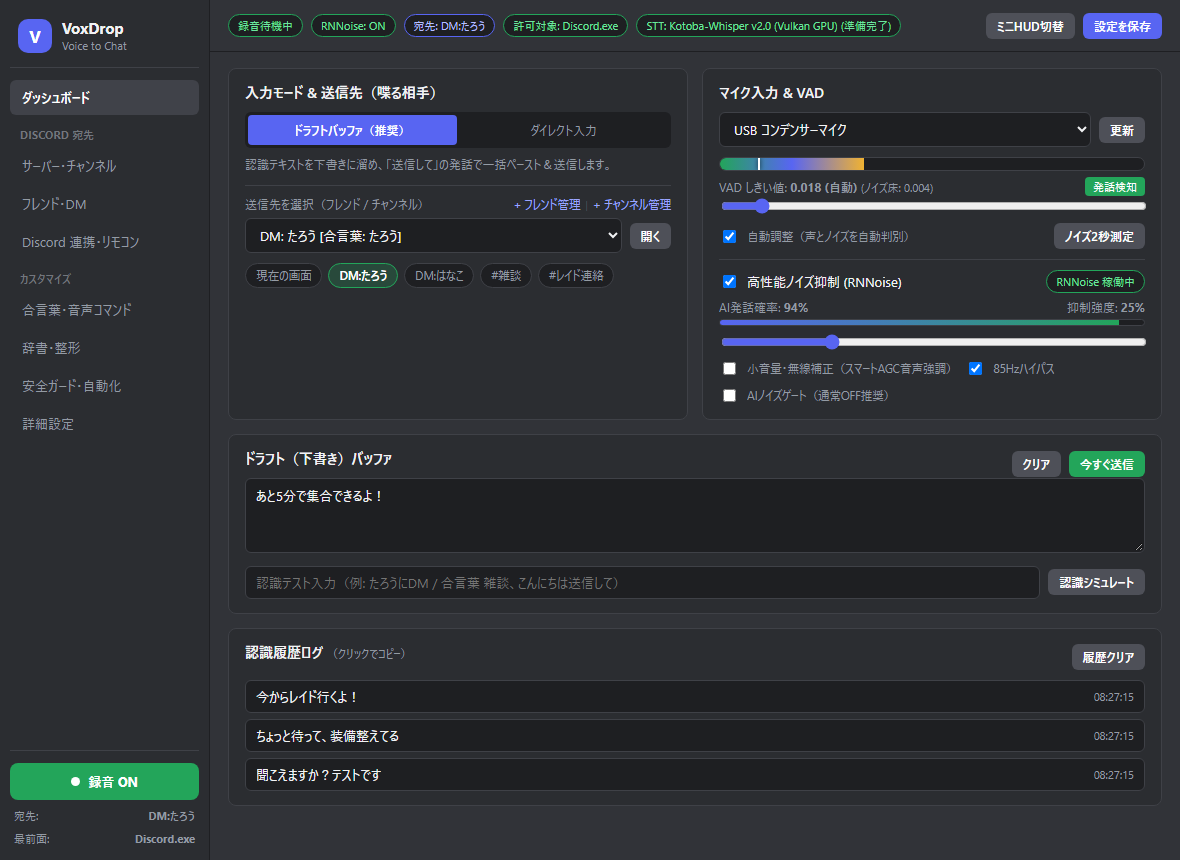
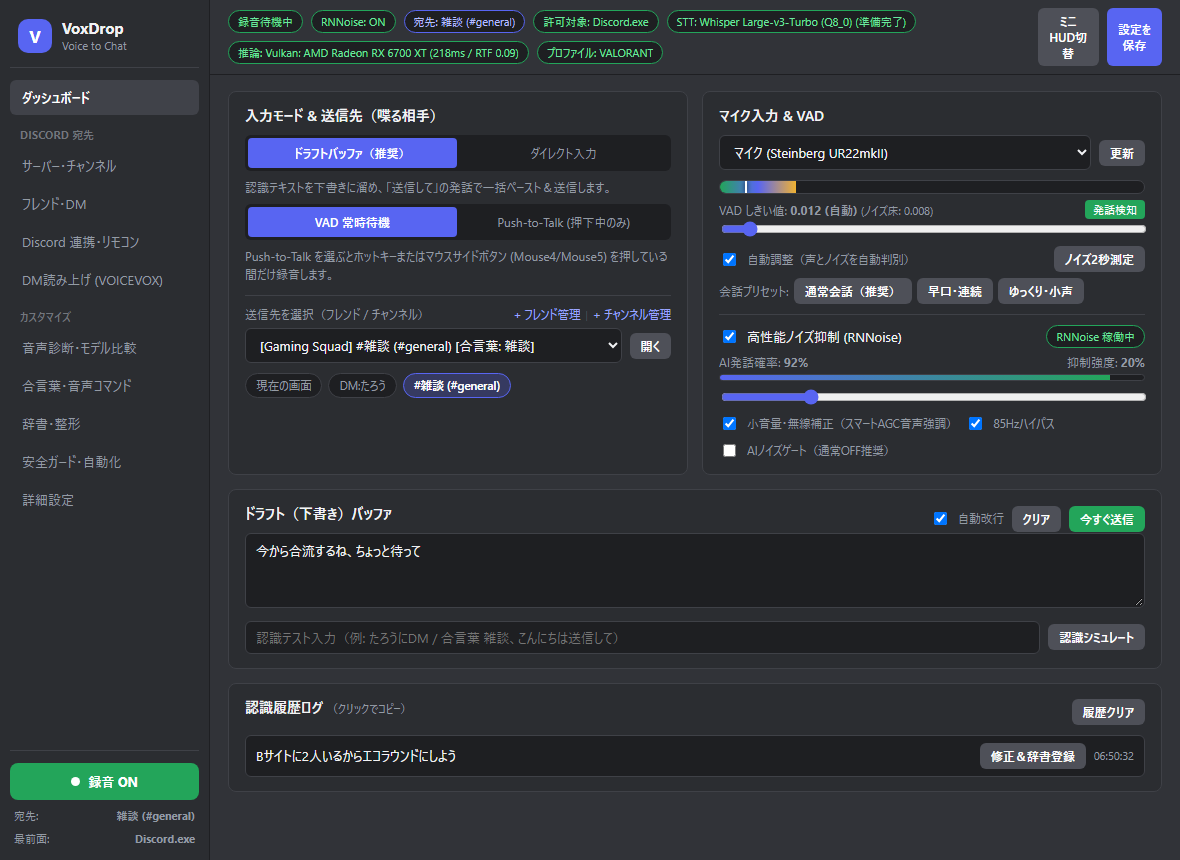
Update README.md with v1.5.0 screenshots and UI walkthrough

diff --git a/README.md b/README.md
@@ -66,15 +66,23 @@
 
 ---
 
-### 8. 音声診断・マルチ STT バックエンド & 誤爆防止 (v1.5.0+)
-- **推論デバイス・レイテンシ可視化 & 音声診断タブ**: アクティブな推論デバイス（`Vulkan: AMD Radeon RX 6700 XT` 等 / `DirectML` / `CPU`）と推論時間・RTF をリアルタイム表示。直近 5 件の発話を音声再生しつつ、録音品質（長さ・ピーク dBFS）確認や他モデルとの **A/B 再推論比較**、ワンクリック **誤認識学習（辞書＋プロンプト即時反映）** が行えます。
-- **3 系統のローカル STT エンジン + 外部モデルダウンローダー**:
+### 8. 音声診断・A/Bモデル比較・推論デバイス可視化 (v1.5.0)
+- **推論デバイス・レイテンシ可視化**: アクティブな推論デバイス（`Vulkan: AMD Radeon RX 6700 XT` 等 / `DirectML` / `CPU`）と推論時間・RTF をリアルタイム表示します。
+- **音声再生 & A/B 再推論比較 & ワンクリック辞書学習**: 直近 5 件の発話音声（16kHz PCM）をメモリ保持し、録音品質（長さ・ピーク dBFS）確認、音声再生、別エンジン/モデルでの **A/B 再推論比較**、**ワンクリック誤認識学習（辞書＋`initial_prompt` 即時反映）** が行えます。
+- **Push-to-Talk（マウスサイドボタン対応）& 送信前カウントダウン & ゲーム別自動プロファイル**: `Mouse4`/`Mouse5` 押下中のみの録音、送信待機中の音声/`Esc` キャンセル、最前面ゲームプロセスに応じた辞書・送信方式・ミニ HUD 位置/透明度の自動切替に対応しています。
+
+![音声診断・モデル比較タブ](docs/images/diagnostics.png)
+
+---
+
+### 9. マルチ STT バックエンド & 外部モデルダウンローダー (v1.5.0)
+- **3 系統のローカル STT エンジン**:
   - **whisper.cpp** (Vulkan GPU / CPU): 同梱モデルに加え、ダウンロード／配置した任意の `.bin` モデルを選択可能。
   - **sherpa-onnx Qwen3-ASR** (DirectML GPU / CPU フォールバック) / **SenseVoice / Zipformer**
   - **Local HTTP ASR** (OpenAI 互換 `/v1/audio/transcriptions`・`llama-server` 等のヘッドレス自動起動対応)
-  - 外部モデル（`Qwen3-ASR-0.6B int8`、`Whisper Large-v3 Q8` 等）は詳細設定タブからオンデマンドで `models/` へ取得できます（実行ファイル非同梱）。
-- **Push-to-Talk（マウスサイドボタン対応）& 送信前カウントダウン**: `Mouse4`/`Mouse5` やホットキー押下中のみの録音に対応。また送信前カウントダウンを有効にすると、待機中の `Esc` または「待って」「取り消し」発話で誤送信を中止できます。
-- **ゲーム別自動プロファイル & チップ式コマンド登録**: 起動中のゲームプロセス名に応じて専用辞書・送信方式・ミニ HUD 位置/透明度を自動切替でき、音声コマンドもカンマ区切り不要で 1 語ずつ追加・削除できます。
+- **オンデマンド取得**: 外部モデル（`Qwen3-ASR-0.6B int8`、`Whisper Large-v3 Q8` 等）は詳細設定タブから `models/` へ取得できます（実行ファイル本体には非同梱）。
+
+![詳細設定（マルチSTT・HTTP ASR・モデルダウンローダー）](docs/images/settings_stt.png)
 
 ---
 
@@ -85,7 +93,11 @@
 3. ダッシュボード右側の **マイク入力** を選び、**「ノイズ2秒測定」** を押して 2 秒間静かに待ちます。
 4. 左下の **「録音 ON」**（または `F8` キー）を押して、Discord へ向かって話しかけてください。
 
-### よく使う音声コマンド（カスタマイズ可能）
+### よく使う音声コマンド（チップ形式で 1 語ずつ簡単カスタマイズ）
+
+「合言葉・音声コマンド」タブからカンマ区切りなしで 1 語ずつ追加（`＋ 追加` / Enter）および削除（`×`）ができます。
+
+![合言葉・音声コマンドタブ（チップ式登録）](docs/images/commands_chips.png)
 
 | 話しかける言葉 | 動作 |
 | :--- | :--- |
